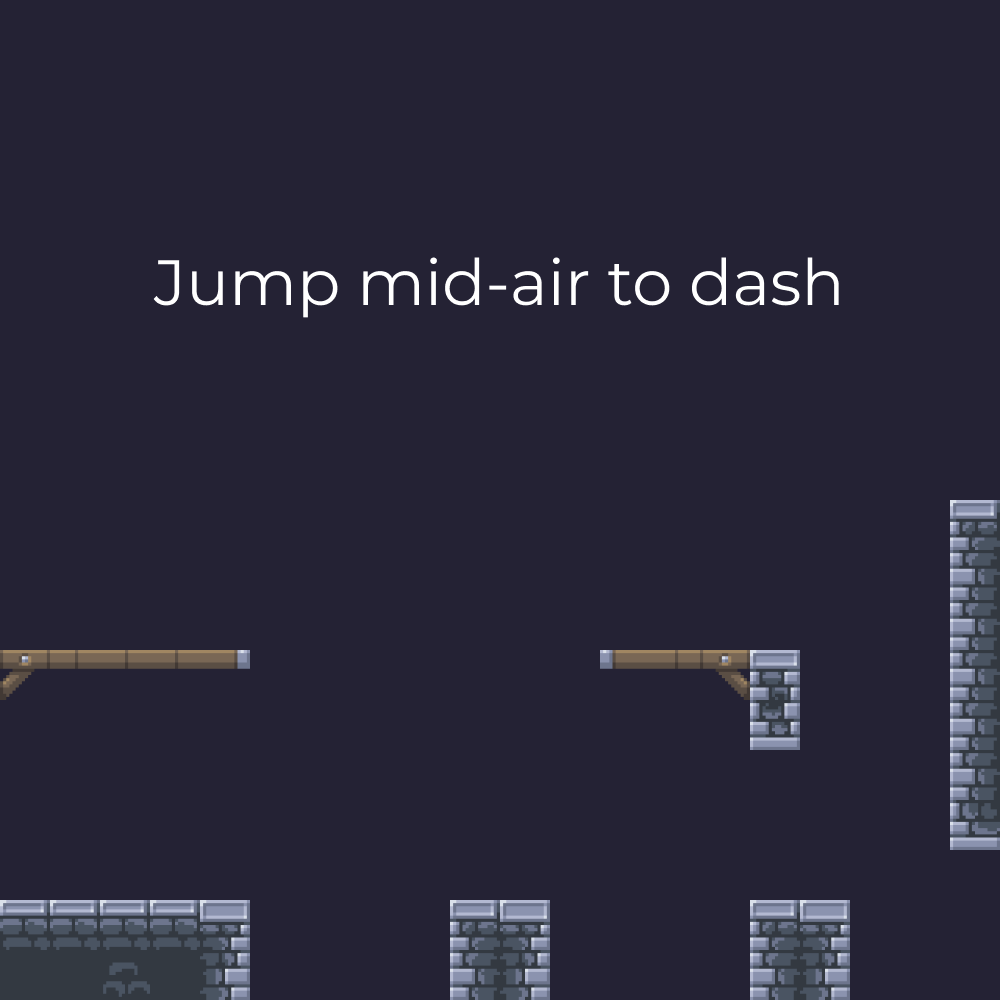
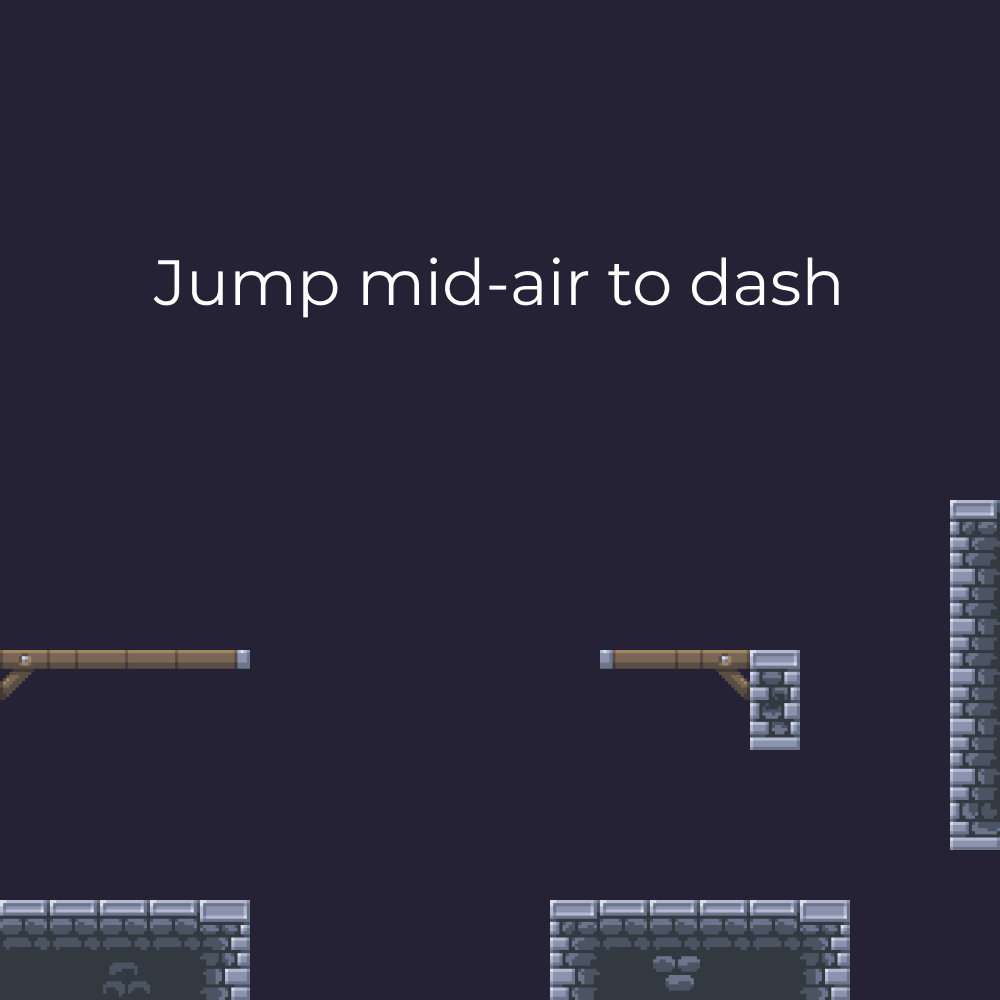
tt

Changed region(s): [[0.434, 0.899, 0.806, 1.0]]

diff --git a/js/script.js b/js/script.js
@@ -12,8 +12,8 @@ const GRAVITY_FORCE = 0.5;
 const DASH_SIZE = 125;
 const DASH_TIME = 5;
 const EFFECT_DISTANCE = 50;
-const DRAW_GRID = false;
-const DRAW_HITBOXES = false;
+const DRAW_GRID = 1;
+const DRAW_HITBOXES = 1;
 const DRAW_LEVEL = true;
 //#endregion
 
@@ -25,7 +25,7 @@ let dashSize = DASH_SIZE;
 let started = false;
 let ended = false;
 
-let levelIndex = 0;
+let levelIndex = 5;
 let trailX = 0;
 let trailY = 0;
 
